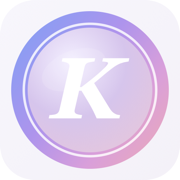
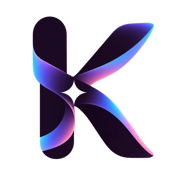
feat: establish canonical Kainnne brand mark

diff --git a/index.html b/index.html
@@ -18,14 +18,14 @@
     <meta property="og:locale" content="zh_TW" />
     <meta property="og:locale:alternate" content="en_US" />
     <meta property="og:image" content="https://kainnne.com/brand/kainnne-mark.png" />
-    <meta property="og:image:width" content="1024" />
-    <meta property="og:image:height" content="1024" />
-    <meta property="og:image:alt" content="Kainnne pastel gradient K brand mark" />
+    <meta property="og:image:width" content="1254" />
+    <meta property="og:image:height" content="1254" />
+    <meta property="og:image:alt" content="Kainnne flowing ribbon K brand mark" />
     <meta name="twitter:card" content="summary" />
     <meta name="twitter:title" content="Kainnne（Kaine Zhu／朱璽）" />
     <meta name="twitter:description" content="Apps、UI / UX、AI、Machine Learning、知識工具與音樂創作。" />
     <meta name="twitter:image" content="https://kainnne.com/brand/kainnne-mark.png" />
-    <meta name="twitter:image:alt" content="Kainnne pastel gradient K brand mark" />
+    <meta name="twitter:image:alt" content="Kainnne flowing ribbon K brand mark" />
     <link rel="canonical" href="https://kainnne.com/" />
     <link rel="icon" type="image/png" sizes="32x32" href="/favicon-32.png" />
     <link rel="apple-touch-icon" sizes="180x180" href="/apple-touch-icon.png" />
@@ -45,9 +45,9 @@
             "@id": "https://kainnne.com/#brand-image",
             "url": "https://kainnne.com/brand/kainnne-mark.png",
             "contentUrl": "https://kainnne.com/brand/kainnne-mark.png",
-            "width": 1024,
-            "height": 1024,
-            "caption": "Kainnne pastel gradient K brand mark"
+            "width": 1254,
+            "height": 1254,
+            "caption": "Kainnne flowing ribbon K brand mark"
           },
           {
             "@type": "Brand",

diff --git a/brand-assets/README.md b/brand-assets/README.md
@@ -1,0 +1,27 @@
+# Kainnne 品牌主視覺
+
+`kainnne-primary-visual-v1.png` 是目前正式的 Kainnne 品牌總圖案：透明背景、流線 ribbon K。它是原始保存檔，不直接由頁面程式重畫，也不應被拉伸或加上白色、黑色底圖。
+
+## 線上固定入口
+
+- 品牌圖片：`https://kainnne.com/brand/kainnne-mark.png`
+- 機器可讀資訊：`https://kainnne.com/brand/brand.json`
+
+所有 Kainnne 網站的 favicon、Apple 圖示與 Open Graph／Twitter 分享圖片，應由單一 metadata／layout 設定引用上面的品牌圖片。新建立的 `*.kainnne.com` 網站也使用同一網址；DNS 不會自動加入網頁圖示，仍需在新網站的 `<head>` 或框架 metadata 中套用這項設定。
+
+```html
+<link rel="icon" type="image/png" href="https://kainnne.com/brand/kainnne-mark.png" />
+<link rel="apple-touch-icon" href="https://kainnne.com/brand/kainnne-mark.png" />
+<meta property="og:image" content="https://kainnne.com/brand/kainnne-mark.png" />
+<meta name="twitter:card" content="summary" />
+<meta name="twitter:image" content="https://kainnne.com/brand/kainnne-mark.png" />
+```
+
+## 日後更換 Logo
+
+1. 保留新原始檔於本資料夾，使用新的版本檔名。
+2. 等比例輸出 `public/brand/kainnne-mark.png`、192、512、180 與 32 px 衍生圖，不裁掉圖案、不加背景。
+3. 更新 `public/brand/brand.json` 的版本、尺寸與來源檔名。
+4. 維持線上固定入口 `/brand/kainnne-mark.png` 不變，再執行 `npm run seo:generate`、測試與部署。
+
+沿用固定入口的子網域會跟著更新；瀏覽器、LINE 或其他社群服務的圖片快取可能需要一段時間才會刷新。

diff --git a/README.md b/README.md
@@ -10,7 +10,7 @@
 - 完整手機導覽、觸控版面與 `prefers-reduced-motion`
 - Person／ProfilePage／WebSite 結構化資料、`robots.txt` 與 `sitemap.xml`
 - 集中式網站 metadata 與建置前 GEO／SEO 同步檢查
-- 柔和漸層 `K` 品牌 mark、favicon、Apple touch icon 與社群分享圖片
+- 統一的流線 `K` 主視覺、favicon、Apple touch icon 與社群分享圖片
 - 允許搜尋引擎與 OAI-SearchBot 索引的 GEO／SEO 基礎
 - 頁尾顯示免 Cookie 的公開總瀏覽數
 - GitHub Actions 自動建置並部署到 GitHub Pages
@@ -39,6 +39,8 @@ npm run seo:check
 ```
 
 產生器會同步 `index.html`、`robots.txt`、`sitemap.xml` 與 `site.webmanifest`；CI 會在部署前阻擋未同步的 GEO／SEO artifacts。
+
+主視覺的來源檔、固定網址、新網站接法與日後更換流程記錄在 [`brand-assets/README.md`](brand-assets/README.md)。
 
 ## 本機開發
 
